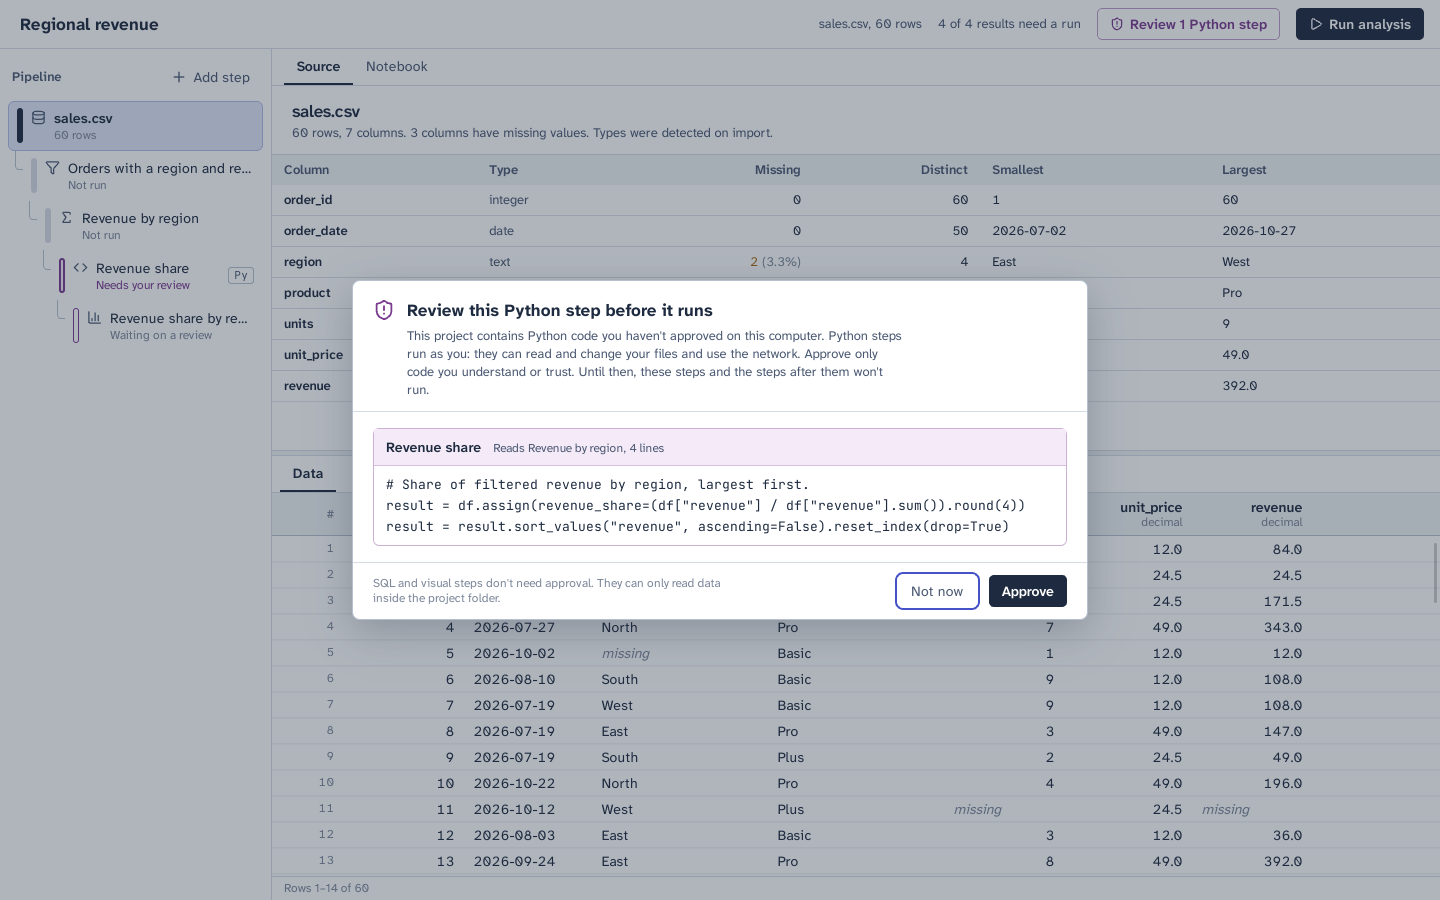
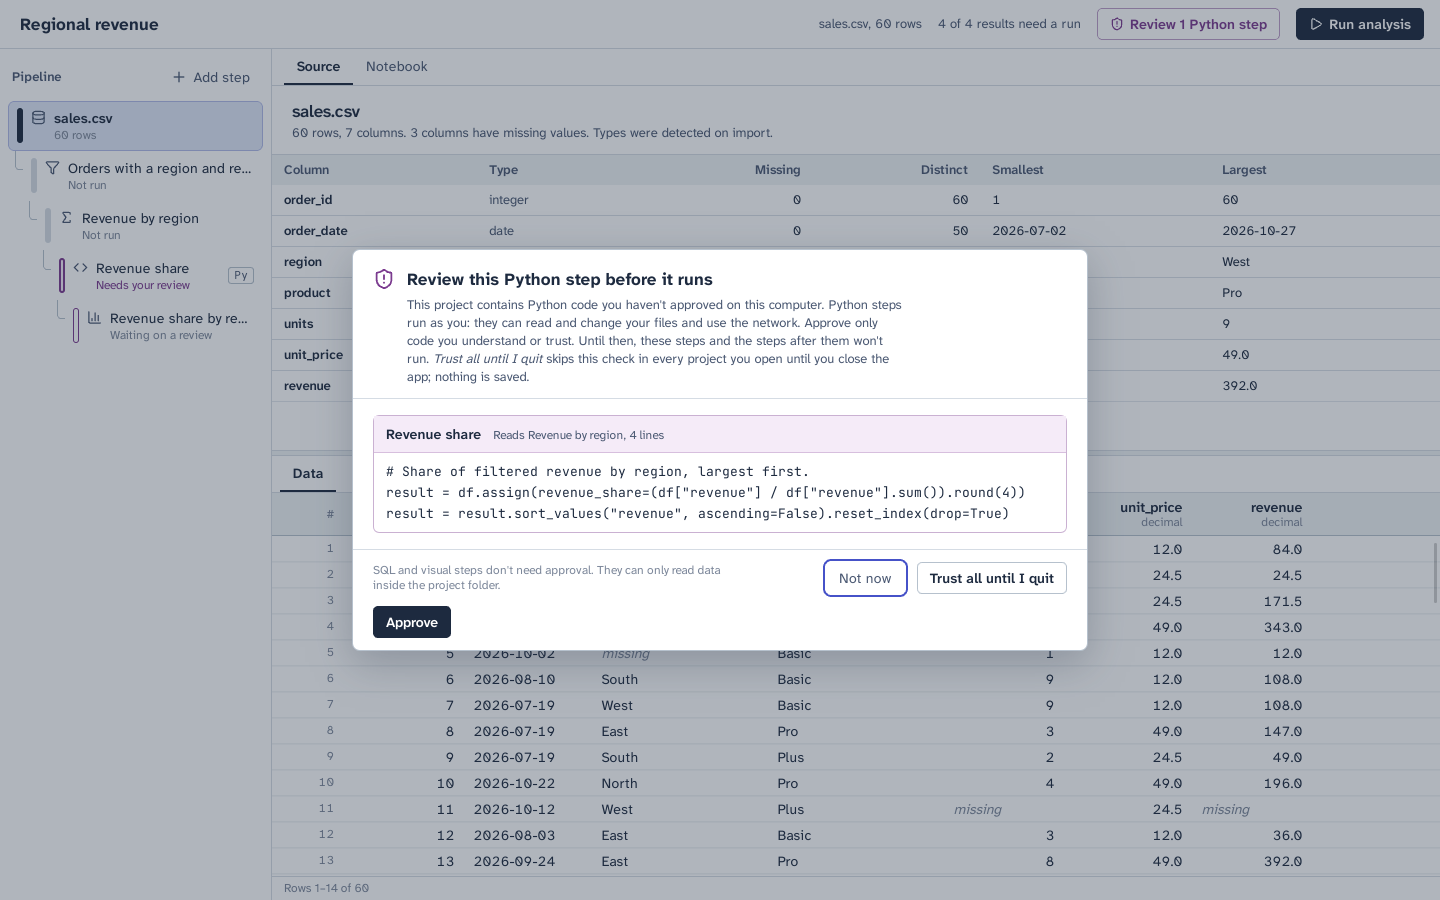
Add "Trust all until I quit" to the code review
Runs every Python step in every project opened before the app closes,
without asking. Held in memory only: nothing is recorded as approved,
and the top bar shows it with an "Ask again" button to switch it off.

Claude-Session: https://claude.ai/code/session_01FMaijQoDaEq4rtygQF21xw

Changed region(s): [[0.2188, 0.28, 0.7812, 0.7467]]

diff --git a/apps/desktop/src/lib/components/ReviewDialog.svelte b/apps/desktop/src/lib/components/ReviewDialog.svelte
@@ -52,7 +52,8 @@
           <Dialog.Description class="mt-1 max-w-[62ch] text-sm text-ink-soft">
             This project contains Python code you haven't approved on this computer. Python steps run as you: they can
             read and change your files and use the network. Approve only code you understand or trust. Until then, these
-            steps and the steps after them won't run.
+            steps and the steps after them won't run. <em>Trust all until I quit</em> skips this check in every project
+            you open until you close the app; nothing is saved.
           </Dialog.Description>
         </div>
       </header>
@@ -81,6 +82,14 @@
           SQL and visual steps don't need approval. They can only read data inside the project folder.
         </p>
         <Dialog.Close class="btn btn-quiet">Not now</Dialog.Close>
+        <button
+          class="btn"
+          disabled={busy}
+          title="Runs Python in every project you open until you quit, without asking. Nothing is saved; you'll be asked again next time."
+          onclick={() => ws.setTrustAll(true)}
+        >
+          Trust all until I quit
+        </button>
         <button class="btn btn-primary" disabled={busy || !items.length} onclick={() => approve(items.map((i) => i.step_id))}>
           {items.length > 1 ? `Approve all ${items.length}` : "Approve"}
         </button>

diff --git a/apps/desktop/src/lib/api/mock.ts b/apps/desktop/src/lib/api/mock.ts
@@ -90,6 +90,7 @@ export class MockBackend implements Backend {
   failed = new Map<string, string>();
   /** Python code (exact text) the user has approved. */
   approved = new Set<string>();
+  trustAll = false;
   /** Milliseconds each step takes in `run` (tests use 0). */
   stepDelay = 0;
   private cancelled = false;
@@ -106,7 +107,7 @@ export class MockBackend implements Backend {
   }
 
   private needsReview(s: MockStep): boolean {
-    return s.op.type === "python" && !this.approved.has(s.op.code);
+    return s.op.type === "python" && !this.trustAll && !this.approved.has(s.op.code);
   }
 
   private state(s: MockStep): StepStateLabel {
@@ -148,6 +149,7 @@ export class MockBackend implements Backend {
         .filter((s) => this.needsReview(s))
         .map((s) => ({ step_id: s.id, label: s.label, input: s.input, code: s.op.type === "python" ? s.op.code : "" })),
       external_source: null,
+      trust_all: this.trustAll,
     };
   }
 
@@ -254,6 +256,11 @@ export class MockBackend implements Backend {
       const s = this.steps.find((x) => x.id === id);
       if (s?.op.type === "python") this.approved.add(s.op.code);
     }
+    return this.view();
+  }
+
+  async setTrustAll(on: boolean): Promise<AnalysisView | null> {
+    this.trustAll = on;
     return this.view();
   }
 

diff --git a/apps/desktop/src/lib/components/TopBar.svelte b/apps/desktop/src/lib/components/TopBar.svelte
@@ -1,5 +1,5 @@
 <script lang="ts">
-  import { Play, ShieldAlert, Square } from "@lucide/svelte";
+  import { Play, ShieldAlert, ShieldOff, Square } from "@lucide/svelte";
   import type { Workspace } from "../workspace.svelte";
   import { formatCount } from "../format";
 
@@ -46,6 +46,12 @@
   >
     {summary}
   </p>
+  {#if ws.view?.trust_all}
+    <p class="flex items-center gap-2 rounded-md border border-review/50 bg-review-wash py-0.5 pr-0.5 pl-2.5 text-sm text-review">
+      <ShieldOff size={14} aria-hidden="true" /> Python runs without review until you quit
+      <button class="btn !min-h-6 !py-0 text-sm" onclick={() => ws.setTrustAll(false)}>Ask again</button>
+    </p>
+  {/if}
   {#if review && !ws.running}
     <button class="btn border-review/50 text-review" onclick={() => (ws.reviewOpen = true)}>
       <ShieldAlert size={14} /> Review {review} Python step{review === 1 ? "" : "s"}

diff --git a/apps/desktop/src/lib/workspace.test.ts b/apps/desktop/src/lib/workspace.test.ts
@@ -149,6 +149,20 @@ describe("Code review (ADR-0004)", () => {
     expect(ws.pendingReview).toEqual([]);
   });
 
+  it("trusts all Python for the session, and asks again when switched off", async () => {
+    const { ws, mock } = await received();
+    await ws.setTrustAll(true);
+    expect(ws.reviewOpen).toBe(false);
+    expect(ws.view!.trust_all).toBe(true);
+    expect(ws.pendingReview).toEqual([]);
+    await ws.run();
+    expect(Object.values(ws.progress).every((e) => e.status === "succeeded")).toBe(true);
+    expect(mock.approved.size).toBe(0);
+    await ws.setTrustAll(false);
+    expect(ws.pendingReview.map((r) => r.step_id)).toEqual(["python_1"]);
+    expect(ws.reviewOpen).toBe(true);
+  });
+
   it("does not open the dialog for the user's own project", async () => {
     const mock = new MockBackend();
     await mock.seedDemo({ run: false, editAfterRun: false });

diff --git a/apps/desktop/src/lib/workspace.svelte.ts b/apps/desktop/src/lib/workspace.svelte.ts
@@ -55,6 +55,14 @@ export class Workspace {
     this.reviewOpen = this.pendingReview.length > 0;
   }
 
+  /** "Trust all in this session": run all Python without review until the app quits. */
+  async setTrustAll(on: boolean) {
+    const v = await this.act(on ? "Trust all Python" : "Ask before running Python", () => this.backend.setTrustAll(on));
+    if (v) this.apply(v);
+    if (on) this.reviewOpen = false;
+    else this.reviewOpen = this.pendingReview.length > 0;
+  }
+
   /** Approve the shown code of these steps; closes the dialog when none are left. */
   async approve(stepIds: string[]) {
     this.apply(await this.act("Approve code", () => this.backend.approve(stepIds)));

diff --git a/apps/desktop/src/lib/api/backend.ts b/apps/desktop/src/lib/api/backend.ts
@@ -22,6 +22,8 @@ export interface Backend {
   rename(name: string): Promise<AnalysisView>;
   /** Approve the current code of these steps so they can run. */
   approve(stepIds: string[]): Promise<AnalysisView>;
+  /** Run all Python without review until the app quits, or stop. */
+  setTrustAll(on: boolean): Promise<AnalysisView | null>;
   /** Resolves when the run ends; progress arrives through `onStep`. */
   run(handlers: RunHandlers): Promise<RunSummary>;
   cancel(): Promise<void>;

diff --git a/apps/desktop/src/lib/api/tauri.ts b/apps/desktop/src/lib/api/tauri.ts
@@ -19,6 +19,7 @@ export const tauriBackend: Backend = {
   setCells: (cells: NotebookCell[]) => invoke<AnalysisView>("set_cells", { cells }),
   rename: (name) => invoke<AnalysisView>("rename", { name }),
   approve: (stepIds: string[]) => invoke<AnalysisView>("approve", { stepIds }),
+  setTrustAll: (on: boolean) => invoke<AnalysisView | null>("set_trust_all", { on }),
 
   async run({ onStep }: RunHandlers) {
     // Listen before starting so no event is missed; the command itself

diff --git a/apps/desktop/src/lib/api/types.ts b/apps/desktop/src/lib/api/types.ts
@@ -95,6 +95,8 @@ export interface AnalysisView {
   python: string | null;
   /** Python steps waiting for the user's approval, in run order (ADR-0004). */
   review: ReviewItem[];
+  /** Python runs without review until the app quits (never saved). */
+  trust_all: boolean;
   /** Absolute path of a source kept outside the project folder, if any. */
   external_source: string | null;
 }

diff --git a/crates/vda-app/src/lib.rs b/crates/vda-app/src/lib.rs
@@ -142,6 +142,8 @@ pub struct AnalysisView {
     pub python: Option<String>,
     /// Python steps waiting for the user's approval, in run order.
     pub review: Vec<ReviewItem>,
+    /// Python runs without review until the app quits (never saved).
+    pub trust_all: bool,
     /// Set when the source file lives outside the project folder (custom
     /// SQL may read it; nothing else outside the folder).
     pub external_source: Option<String>,
@@ -235,6 +237,9 @@ pub struct App {
     /// Where approvals are kept; `None` keeps them in memory for this App.
     approvals_path: Option<PathBuf>,
     memory_approvals: Approvals,
+    /// "Trust all in this session": lasts as long as this App, for every
+    /// project opened in it, and is never written anywhere.
+    trust_all: bool,
 }
 
 impl Default for App {
@@ -246,7 +251,7 @@ impl Default for App {
 impl App {
     /// Approvals are kept in memory until `with_approvals_file` is used.
     pub fn new(engine_options: EngineOptions, interpreter: PathBuf) -> Self {
-        App { session: None, engine_options, interpreter, approvals_path: None, memory_approvals: Approvals::in_memory() }
+        App { session: None, engine_options, interpreter, approvals_path: None, memory_approvals: Approvals::in_memory(), trust_all: false }
     }
 
     /// Keep approvals in this file (outside any project, so a project can
@@ -273,10 +278,11 @@ impl App {
             Some(a) => Session::new(a, dir, engine, python)?,
             None => Session::open(dir, engine, python)?,
         };
-        let approvals = match &self.approvals_path {
+        let mut approvals = match &self.approvals_path {
             Some(p) => Approvals::load(p.clone())?,
             None => self.memory_approvals.clone(),
         };
+        approvals.set_trust_all(self.trust_all);
         session.set_review_policy(ReviewPolicy::RequireApproval(approvals));
         self.session = Some(session);
         Ok(())
@@ -290,6 +296,21 @@ impl App {
         }
         self.remember_approvals();
         self.view()
+    }
+
+    /// Run all Python without review until the app quits, or stop doing so.
+    /// Works with or without an open project.
+    pub fn set_trust_all(&mut self, on: bool) -> Result<Option<AnalysisView>> {
+        self.trust_all = on;
+        match self.session.as_mut() {
+            Some(s) => {
+                if let ReviewPolicy::RequireApproval(a) = s.review_policy_mut() {
+                    a.set_trust_all(on);
+                }
+                self.view().map(Some)
+            }
+            None => Ok(None),
+        }
     }
 
     /// In-memory approvals outlive the session (close and reopen keeps them).
@@ -338,6 +359,7 @@ impl App {
     }
 
     pub fn view(&mut self) -> Result<AnalysisView> {
+        let trust_all = self.trust_all;
         let s = self.session()?;
         let source = s.source_dataset()?;
         let a = s.analysis.clone();
@@ -389,6 +411,7 @@ impl App {
                 })
                 .collect(),
             external_source: Path::new(&a.source.path).is_absolute().then(|| a.source.path.clone()),
+            trust_all,
         })
     }
 

diff --git a/crates/vda-core/src/review.rs b/crates/vda-core/src/review.rs
@@ -40,6 +40,9 @@ pub struct Approvals {
     path: Option<PathBuf>,
     /// fingerprint → approval time (Unix ms)
     approved: BTreeMap<String, u128>,
+    /// Treat every piece of code as approved. Held in memory only and never
+    /// saved, so it ends with the app ("trust all in this session").
+    trust_all: bool,
 }
 
 impl Approvals {
@@ -68,7 +71,7 @@ impl Approvals {
             Err(e) if e.kind() == std::io::ErrorKind::NotFound => {}
             Err(e) => return Err(e.into()),
         }
-        Ok(Approvals { path: Some(path), approved })
+        Ok(Approvals { path: Some(path), approved, trust_all: false })
     }
 
     pub fn path(&self) -> Option<&Path> {
@@ -76,7 +79,17 @@ impl Approvals {
     }
 
     pub fn is_approved(&self, fingerprint: &str) -> bool {
-        self.approved.contains_key(fingerprint)
+        self.trust_all || self.approved.contains_key(fingerprint)
+    }
+
+    /// Run all code without asking until this is turned off or the app
+    /// quits. Nothing is recorded as approved, so asking resumes afterwards.
+    pub fn set_trust_all(&mut self, on: bool) {
+        self.trust_all = on;
+    }
+
+    pub fn trust_all(&self) -> bool {
+        self.trust_all
     }
 
     pub fn approve(&mut self, fingerprint: &str) -> Result<(), Error> {
@@ -196,6 +209,21 @@ mod tests {
         assert!(!policy.pending(&StepKind::Sql { sql: "SELECT 1".into() }));
         assert!(!policy.pending(&StepKind::Filter { predicates: vec![] }));
         assert!(!ReviewPolicy::RunEverything.pending(&py("import os")));
+    }
+
+    #[test]
+    fn trusting_all_is_never_saved() {
+        let path = std::env::temp_dir().join(format!("vda-approvals-all-{}.json", std::process::id()));
+        let _ = fs::remove_file(&path);
+        let mut a = Approvals::load(&path).unwrap();
+        a.set_trust_all(true);
+        assert!(!ReviewPolicy::RequireApproval(a.clone()).pending(&py("import os")));
+        a.approve("unrelated").unwrap();
+        let reloaded = Approvals::load(&path).unwrap();
+        assert!(!reloaded.trust_all());
+        assert!(ReviewPolicy::RequireApproval(reloaded).pending(&py("import os")));
+        a.set_trust_all(false);
+        assert!(ReviewPolicy::RequireApproval(a).pending(&py("import os")), "turning it off asks again");
     }
 
     #[test]

diff --git a/crates/vda-app/tests/review.rs b/crates/vda-app/tests/review.rs
@@ -140,3 +140,31 @@ fn received_sql_runs_without_review_but_only_inside_the_project() {
     assert!(!detail.contains("hunter2"));
     assert!(detail.to_lowercase().contains("permission") || detail.contains("not allowed"), "{detail}");
 }
+
+#[test]
+fn trusting_all_lasts_for_this_app_only() {
+    let dir = received_project("trust-all");
+    let approvals = temp("trust-all-me.json");
+    let mut me = person(&approvals);
+    me.open_project(&dir).unwrap();
+
+    let view = me.set_trust_all(true).unwrap().unwrap();
+    assert!(view.trust_all && view.review.is_empty());
+    assert!(me.run(&mut |_| {}).unwrap().succeeded, "everything runs without asking");
+
+    // It also covers projects opened later in the same app.
+    me.close_project();
+    let other = received_project("trust-all-other");
+    let view = me.open_project(&other).unwrap();
+    assert!(view.trust_all && view.review.is_empty());
+
+    // Nothing was recorded as approved: a restarted app asks again.
+    let mut restarted = person(&approvals);
+    let view = restarted.open_project(&dir).unwrap();
+    assert!(!view.trust_all);
+    assert_eq!(view.review.len(), 1);
+
+    // Turning it off asks again at once.
+    let view = me.set_trust_all(false).unwrap().unwrap();
+    assert_eq!(view.review.len(), 1);
+}

diff --git a/apps/desktop/src-tauri/src/main.rs b/apps/desktop/src-tauri/src/main.rs
@@ -94,6 +94,13 @@ async fn approve(s: State<'_, Shared>, step_ids: Vec<String>) -> Res<AnalysisVie
     with(&s, |a| a.approve(&step_ids))
 }
 
+/// "Trust all in this session": Python runs without review until the app
+/// quits. Kept in memory only.
+#[tauri::command]
+async fn set_trust_all(s: State<'_, Shared>, on: bool) -> Res<Option<AnalysisView>> {
+    with(&s, |a| a.set_trust_all(on))
+}
+
 #[tauri::command]
 async fn rename(s: State<'_, Shared>, name: String) -> Res<AnalysisView> {
     with(&s, |a| a.rename(&name))
@@ -147,6 +154,7 @@ fn main() {
         .invoke_handler(tauri::generate_handler![
             startup_project,
             approve,
+            set_trust_all,
             create_project,
             open_project,
             view,
